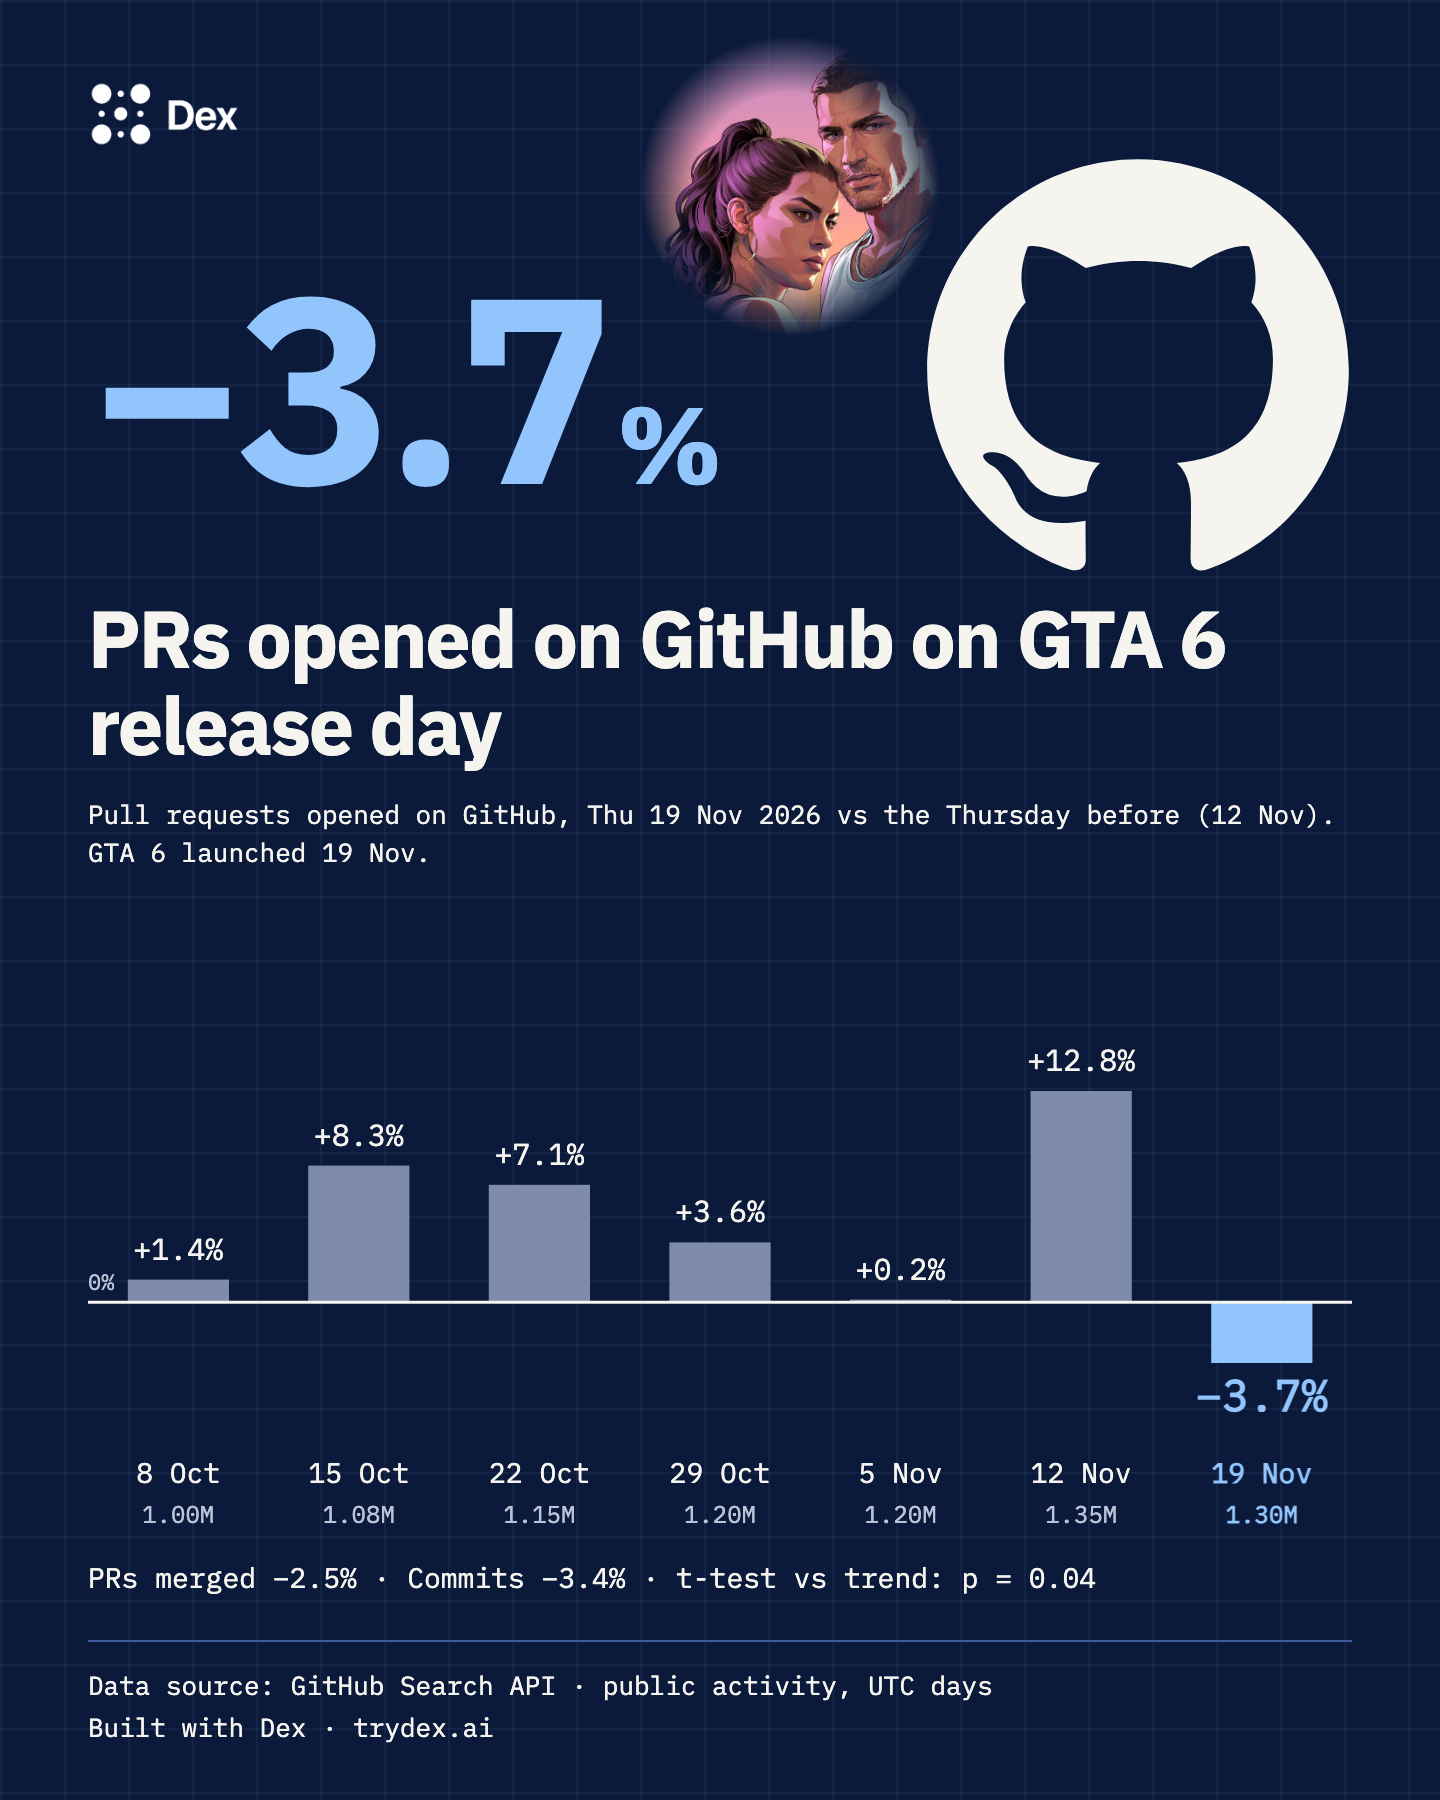
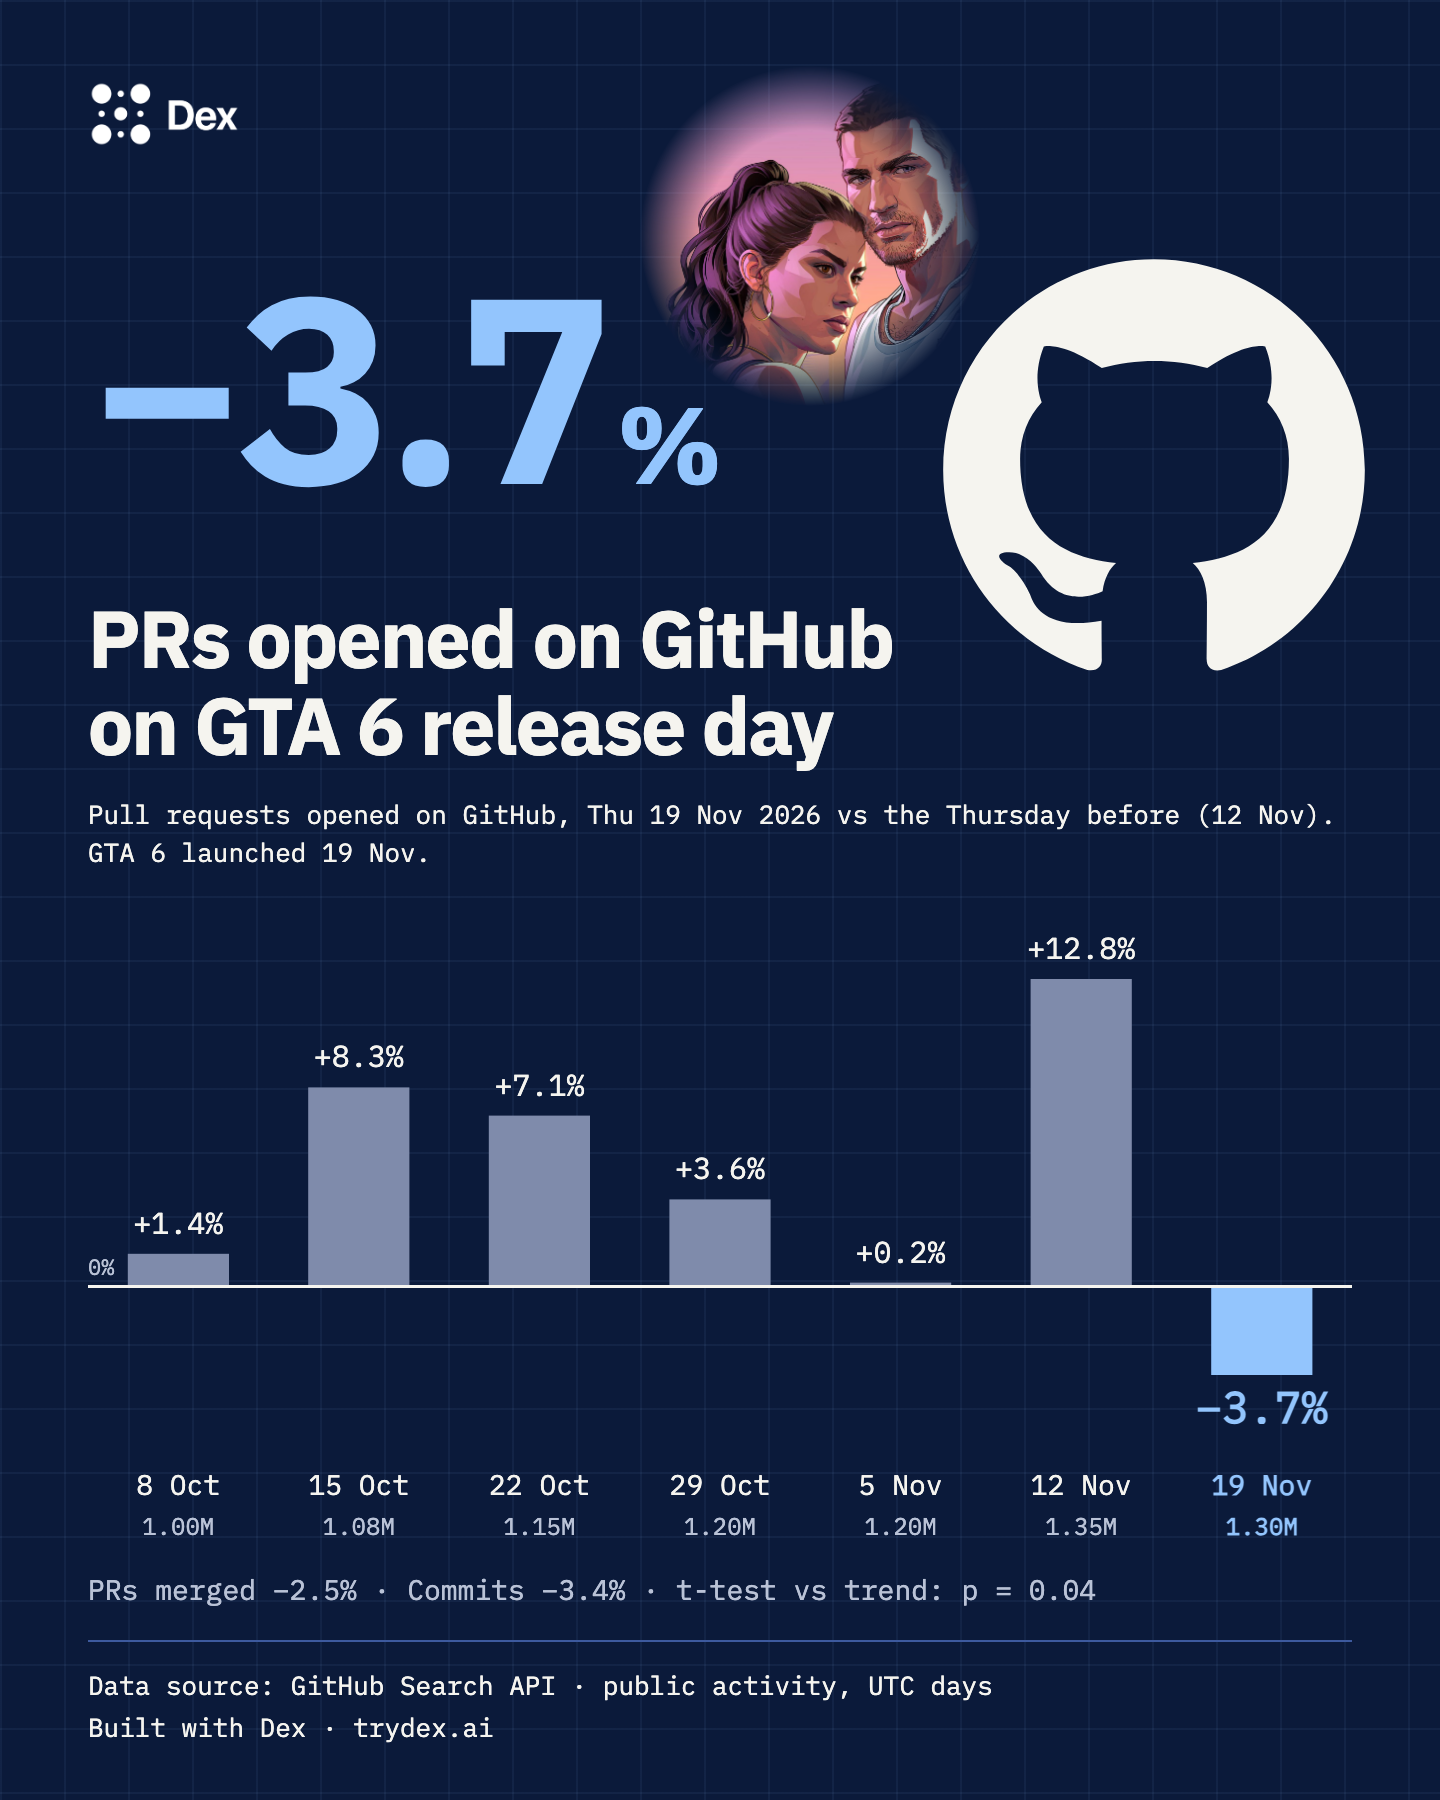
Fine-tuned GitHub metric presentation, again

diff --git a/charts/github-release-day-portrait-dark.html b/charts/github-release-day-portrait-dark.html
@@ -23,13 +23,13 @@
     <div class="hero">
       <div>
         <div class="big">−3.7<small>%</small></div>
-        <h1>PRs opened on GitHub on GTA 6 release day</h1>
+        <h1>PRs opened on GitHub<br class="pbr"> on GTA 6 release day</h1>
         <p class="fine">Pull requests opened on GitHub,
         <span class="nw">Thu 19 Nov 2026</span> vs
         <span class="nw">the Thursday before (12 Nov)</span>.<br>GTA 6 launched 19 Nov.</p>
       </div>
       <div class="gh-bottom">
-        <div class="thu"><svg class="wow" viewBox="0 0 632 250" role="img" aria-label="PRs opened, each Thursday vs the Thursday before"><rect class="was" x="19.9" y="122.3" width="50.6" height="11.3"/><text class="pct was" x="45.1" y="112.3">+1.4%</text><text class="d was" x="45.1" y="224">8 Oct</text><text class="n was" x="45.1" y="244">1.00M</text><rect class="was" x="110.1" y="65.3" width="50.6" height="68.4"/><text class="pct was" x="135.4" y="55.3">+8.3%</text><text class="d was" x="135.4" y="224">15 Oct</text><text class="n was" x="135.4" y="244">1.08M</text><rect class="was" x="200.4" y="74.9" width="50.6" height="58.7"/><text class="pct was" x="225.7" y="64.9">+7.1%</text><text class="d was" x="225.7" y="224">22 Oct</text><text class="n was" x="225.7" y="244">1.15M</text><rect class="was" x="290.7" y="103.7" width="50.6" height="29.9"/><text class="pct was" x="316.0" y="93.7">+3.6%</text><text class="d was" x="316.0" y="224">29 Oct</text><text class="n was" x="316.0" y="244">1.20M</text><rect class="was" x="381.0" y="132.3" width="50.6" height="1.5"/><text class="pct was" x="406.3" y="122.3">+0.2%</text><text class="d was" x="406.3" y="224">5 Nov</text><text class="n was" x="406.3" y="244">1.20M</text><rect class="was" x="471.3" y="28.0" width="50.6" height="105.6"/><text class="pct was" x="496.6" y="18.0">+12.8%</text><text class="d was" x="496.6" y="224">12 Nov</text><text class="n was" x="496.6" y="244">1.35M</text><rect class="now" x="561.6" y="133.6" width="50.6" height="30.4"/><text class="pct now" x="586.9" y="188.0">−3.7%</text><text class="d now" x="586.9" y="224">19 Nov</text><text class="n now" x="586.9" y="244">1.30M</text><line class="zero" x1="0" x2="632" y1="133.6" y2="133.6"/><text class="zl" x="0" y="127.6">0%</text></svg></div>
+        <div class="thu"><svg class="wow" viewBox="0 0 632 312" role="img" aria-label="PRs opened, each Thursday vs the Thursday before"><rect class="was" x="19.9" y="165.4" width="50.6" height="16.5"/><text class="pct was" x="45.1" y="155.4">+1.4%</text><text class="d was" x="45.1" y="286">8 Oct</text><text class="n was" x="45.1" y="306">1.00M</text><rect class="was" x="110.1" y="82.2" width="50.6" height="99.6"/><text class="pct was" x="135.4" y="72.2">+8.3%</text><text class="d was" x="135.4" y="286">15 Oct</text><text class="n was" x="135.4" y="306">1.08M</text><rect class="was" x="200.4" y="96.3" width="50.6" height="85.5"/><text class="pct was" x="225.7" y="86.3">+7.1%</text><text class="d was" x="225.7" y="286">22 Oct</text><text class="n was" x="225.7" y="306">1.15M</text><rect class="was" x="290.7" y="138.2" width="50.6" height="43.6"/><text class="pct was" x="316.0" y="128.2">+3.6%</text><text class="d was" x="316.0" y="286">29 Oct</text><text class="n was" x="316.0" y="306">1.20M</text><rect class="was" x="381.0" y="179.8" width="50.6" height="2.0"/><text class="pct was" x="406.3" y="169.8">+0.2%</text><text class="d was" x="406.3" y="286">5 Nov</text><text class="n was" x="406.3" y="306">1.20M</text><rect class="was" x="471.3" y="28.0" width="50.6" height="153.8"/><text class="pct was" x="496.6" y="18.0">+12.8%</text><text class="d was" x="496.6" y="286">12 Nov</text><text class="n was" x="496.6" y="306">1.35M</text><rect class="now" x="561.6" y="181.8" width="50.6" height="44.2"/><text class="pct now" x="586.9" y="250.0">−3.7%</text><text class="d now" x="586.9" y="286">19 Nov</text><text class="n now" x="586.9" y="306">1.30M</text><line class="zero" x1="0" x2="632" y1="181.8" y2="181.8"/><text class="zl" x="0" y="175.8">0%</text></svg></div>
         <div class="yoy"><div></div><div class="key"><span><i class="prior"></i>Thu 12 Nov</span><span><i class="current"></i>Thu 19 Nov</span></div><div class="term">PRs opened</div><div class="pair"><b class="prior" style="width:100.0%">1.35M</b><b class="current" style="width:96.3%">1.30M</b></div><div class="change">−3.7%</div><div class="term">PRs merged</div><div class="pair"><b class="prior" style="width:100.0%">1.12M</b><b class="current" style="width:97.5%">1.09M</b></div><div class="change">−2.5%</div><div class="term">Commits</div><div class="pair"><b class="prior" style="width:100.0%">12.9M</b><b class="current" style="width:96.6%">12.4M</b></div><div class="change">−3.4%</div></div>
         <p class="gh-line">PRs merged −2.5% · Commits −3.4% · t-test vs trend: p = 0.04</p>
       </div>

diff --git a/charts/github-release-day-portrait.html b/charts/github-release-day-portrait.html
@@ -23,13 +23,13 @@
     <div class="hero">
       <div>
         <div class="big">−3.7<small>%</small></div>
-        <h1>PRs opened on GitHub on GTA 6 release day</h1>
+        <h1>PRs opened on GitHub<br class="pbr"> on GTA 6 release day</h1>
         <p class="fine">Pull requests opened on GitHub,
         <span class="nw">Thu 19 Nov 2026</span> vs
         <span class="nw">the Thursday before (12 Nov)</span>.<br>GTA 6 launched 19 Nov.</p>
       </div>
       <div class="gh-bottom">
-        <div class="thu"><svg class="wow" viewBox="0 0 632 250" role="img" aria-label="PRs opened, each Thursday vs the Thursday before"><rect class="was" x="19.9" y="122.3" width="50.6" height="11.3"/><text class="pct was" x="45.1" y="112.3">+1.4%</text><text class="d was" x="45.1" y="224">8 Oct</text><text class="n was" x="45.1" y="244">1.00M</text><rect class="was" x="110.1" y="65.3" width="50.6" height="68.4"/><text class="pct was" x="135.4" y="55.3">+8.3%</text><text class="d was" x="135.4" y="224">15 Oct</text><text class="n was" x="135.4" y="244">1.08M</text><rect class="was" x="200.4" y="74.9" width="50.6" height="58.7"/><text class="pct was" x="225.7" y="64.9">+7.1%</text><text class="d was" x="225.7" y="224">22 Oct</text><text class="n was" x="225.7" y="244">1.15M</text><rect class="was" x="290.7" y="103.7" width="50.6" height="29.9"/><text class="pct was" x="316.0" y="93.7">+3.6%</text><text class="d was" x="316.0" y="224">29 Oct</text><text class="n was" x="316.0" y="244">1.20M</text><rect class="was" x="381.0" y="132.3" width="50.6" height="1.5"/><text class="pct was" x="406.3" y="122.3">+0.2%</text><text class="d was" x="406.3" y="224">5 Nov</text><text class="n was" x="406.3" y="244">1.20M</text><rect class="was" x="471.3" y="28.0" width="50.6" height="105.6"/><text class="pct was" x="496.6" y="18.0">+12.8%</text><text class="d was" x="496.6" y="224">12 Nov</text><text class="n was" x="496.6" y="244">1.35M</text><rect class="now" x="561.6" y="133.6" width="50.6" height="30.4"/><text class="pct now" x="586.9" y="188.0">−3.7%</text><text class="d now" x="586.9" y="224">19 Nov</text><text class="n now" x="586.9" y="244">1.30M</text><line class="zero" x1="0" x2="632" y1="133.6" y2="133.6"/><text class="zl" x="0" y="127.6">0%</text></svg></div>
+        <div class="thu"><svg class="wow" viewBox="0 0 632 312" role="img" aria-label="PRs opened, each Thursday vs the Thursday before"><rect class="was" x="19.9" y="165.4" width="50.6" height="16.5"/><text class="pct was" x="45.1" y="155.4">+1.4%</text><text class="d was" x="45.1" y="286">8 Oct</text><text class="n was" x="45.1" y="306">1.00M</text><rect class="was" x="110.1" y="82.2" width="50.6" height="99.6"/><text class="pct was" x="135.4" y="72.2">+8.3%</text><text class="d was" x="135.4" y="286">15 Oct</text><text class="n was" x="135.4" y="306">1.08M</text><rect class="was" x="200.4" y="96.3" width="50.6" height="85.5"/><text class="pct was" x="225.7" y="86.3">+7.1%</text><text class="d was" x="225.7" y="286">22 Oct</text><text class="n was" x="225.7" y="306">1.15M</text><rect class="was" x="290.7" y="138.2" width="50.6" height="43.6"/><text class="pct was" x="316.0" y="128.2">+3.6%</text><text class="d was" x="316.0" y="286">29 Oct</text><text class="n was" x="316.0" y="306">1.20M</text><rect class="was" x="381.0" y="179.8" width="50.6" height="2.0"/><text class="pct was" x="406.3" y="169.8">+0.2%</text><text class="d was" x="406.3" y="286">5 Nov</text><text class="n was" x="406.3" y="306">1.20M</text><rect class="was" x="471.3" y="28.0" width="50.6" height="153.8"/><text class="pct was" x="496.6" y="18.0">+12.8%</text><text class="d was" x="496.6" y="286">12 Nov</text><text class="n was" x="496.6" y="306">1.35M</text><rect class="now" x="561.6" y="181.8" width="50.6" height="44.2"/><text class="pct now" x="586.9" y="250.0">−3.7%</text><text class="d now" x="586.9" y="286">19 Nov</text><text class="n now" x="586.9" y="306">1.30M</text><line class="zero" x1="0" x2="632" y1="181.8" y2="181.8"/><text class="zl" x="0" y="175.8">0%</text></svg></div>
         <div class="yoy"><div></div><div class="key"><span><i class="prior"></i>Thu 12 Nov</span><span><i class="current"></i>Thu 19 Nov</span></div><div class="term">PRs opened</div><div class="pair"><b class="prior" style="width:100.0%">1.35M</b><b class="current" style="width:96.3%">1.30M</b></div><div class="change">−3.7%</div><div class="term">PRs merged</div><div class="pair"><b class="prior" style="width:100.0%">1.12M</b><b class="current" style="width:97.5%">1.09M</b></div><div class="change">−2.5%</div><div class="term">Commits</div><div class="pair"><b class="prior" style="width:100.0%">12.9M</b><b class="current" style="width:96.6%">12.4M</b></div><div class="change">−3.4%</div></div>
         <p class="gh-line">PRs merged −2.5% · Commits −3.4% · t-test vs trend: p = 0.04</p>
       </div>

diff --git a/brand/charts.css b/brand/charts.css
@@ -252,8 +252,8 @@ h1 .red { color: var(--dex-redline); }
   top: 40px; right: 64px; width: 250px; height: 250px; }
 .gh-mark svg { width: 100%; height: 100%; display: block; }
 .card.github .aside { top: 196px; right: 266px; width: 150px; height: 150px; }
-.card.portrait .gh-mark { top: 70px; right: 36px; width: 230px; height: 230px; }
-.card.portrait.github .aside { top: 18px; right: 250px; width: 150px; height: 150px; }
+.card.portrait .gh-mark { top: 120px; right: 28px; width: 230px; height: 230px; }
+.card.portrait.github .aside { top: 33px; right: 230px; width: 170px; height: 170px; }
 .card.portrait.github .big { margin-top: 26px; }
 .card.portrait.github .hero { justify-content: flex-start; }
 .card.portrait.github .gh-bottom { margin-top: auto; }
@@ -261,8 +261,11 @@ h1 .red { color: var(--dex-redline); }
 .gh-line { display: none; }
 .card.portrait .gh-bottom { grid-template-columns: 1fr; row-gap: 12px; }
 .card.portrait .gh-bottom .yoy { display: none; }
-.card.portrait .gh-line { display: block; margin: 0; font: 14px var(--font-mono); color: var(--dex-ink); }
+.card.portrait .gh-line { display: block; margin: 0; font: 14px var(--font-mono); color: var(--dex-ink-muted); }
 .card.portrait.github .hero h1 { margin-top: 52px; }
 .card.github:not(.portrait) .thu svg.wow { width: auto; height: 196px; max-width: 100%; }
 .card.github:not(.portrait) .gh-mark { top: 34px; right: 60px; width: 210px; height: 210px; }
 .card.github:not(.portrait) .aside { top: 40px; right: 290px; width: 150px; height: 150px; }
+/* Explicit line break used only on the 4:5 card */
+.pbr { display: none; }
+.card.portrait .pbr { display: inline; }

diff --git a/charts/github-release-day-dark.html b/charts/github-release-day-dark.html
@@ -23,7 +23,7 @@
     <div class="hero">
       <div>
         <div class="big">−3.7<small>%</small></div>
-        <h1>PRs opened on GitHub on GTA 6 release day</h1>
+        <h1>PRs opened on GitHub<br class="pbr"> on GTA 6 release day</h1>
         <p class="fine">Pull requests opened on GitHub,
         <span class="nw">Thu 19 Nov 2026</span> vs
         <span class="nw">the Thursday before (12 Nov)</span>.<br>GTA 6 launched 19 Nov.</p>

diff --git a/charts/github-release-day.html b/charts/github-release-day.html
@@ -23,7 +23,7 @@
     <div class="hero">
       <div>
         <div class="big">−3.7<small>%</small></div>
-        <h1>PRs opened on GitHub on GTA 6 release day</h1>
+        <h1>PRs opened on GitHub<br class="pbr"> on GTA 6 release day</h1>
         <p class="fine">Pull requests opened on GitHub,
         <span class="nw">Thu 19 Nov 2026</span> vs
         <span class="nw">the Thursday before (12 Nov)</span>.<br>GTA 6 launched 19 Nov.</p>

diff --git a/src/gta6_impact/charts/build.py b/src/gta6_impact/charts/build.py
@@ -250,7 +250,7 @@ def _github_bars(rows: list[dict], prior: str, current: str) -> str:
     return "".join(out)
 
 
-def _thursdays(series: list[dict], release: dt.date) -> str:
+def _thursdays(series: list[dict], release: dt.date, h: int = 250) -> str:
     """PRs opened on every Thursday in the data, as the change on the Thursday before.
 
     The bars start at zero change, so a drop points down and every rise points up, at their
@@ -259,7 +259,7 @@ def _thursdays(series: list[dict], release: dt.date) -> str:
     """
     shown = [r for r in series if r["github_activity_change_wow"] is not None]
     label = f"PRs opened, each {release:%A} vs the {release:%A} before"
-    w, h = 632, 250
+    w = 632
     top_pad, label_h, foot_h = 28, 30, 56
     values = [r["github_activity_change_wow"] for r in shown]
     hi, lo = max(0.0, *values), min(0.0, *values)
@@ -410,13 +410,13 @@ def github_card(png: bool) -> dict | None:
     body = f"""    <div class="hero">
       <div>
         <div class="big">{big}</div>
-        <h1>PRs opened on GitHub on GTA 6 release day</h1>
+        <h1>PRs opened on GitHub<br class="pbr"> on GTA 6 release day</h1>
         <p class="fine">Pull requests opened on GitHub,
         <span class="nw">{release:%a %-d %b %Y}</span> vs
         <span class="nw">{escape(baseline)}</span>.<br>GTA 6 launched 19 Nov.</p>
       </div>
       <div class="gh-bottom">
-        {_thursdays(series, release)}
+        {{chart}}
         {_github_bars(rows, legend, f"{release:%a %-d %b}")}
         <p class="gh-line">{escape(others)}{sig}</p>
       </div>
@@ -424,14 +424,15 @@ def github_card(png: bool) -> dict | None:
     aside = f"""  <figure class="aside">
     <img alt="Lucia and Jason, the two leads of GTA 6" src="../assets/gta-6-lucia-and-the-guy.jpg">
   </figure>{_github_mark()}"""
-    for name, w, h, variant in (
-        ("github-release-day", 1200, 630, "decimals github"),
-        ("github-release-day-portrait", 720, 900, "portrait decimals github"),
+    # The 4:5 card is tall: its chart takes the height the landscape card has no room for.
+    for name, w, h, variant, chart_h in (
+        ("github-release-day", 1200, 630, "decimals github", 250),
+        ("github-release-day-portrait", 720, 900, "portrait decimals github", 312),
     ):
         _write(
             name,
             title="PRs opened on GTA 6 release day",
-            body=body,
+            body=body.replace("{chart}", _thursdays(series, release, chart_h)),
             aside=aside,
             source=GITHUB_SOURCE,
             w=w,
